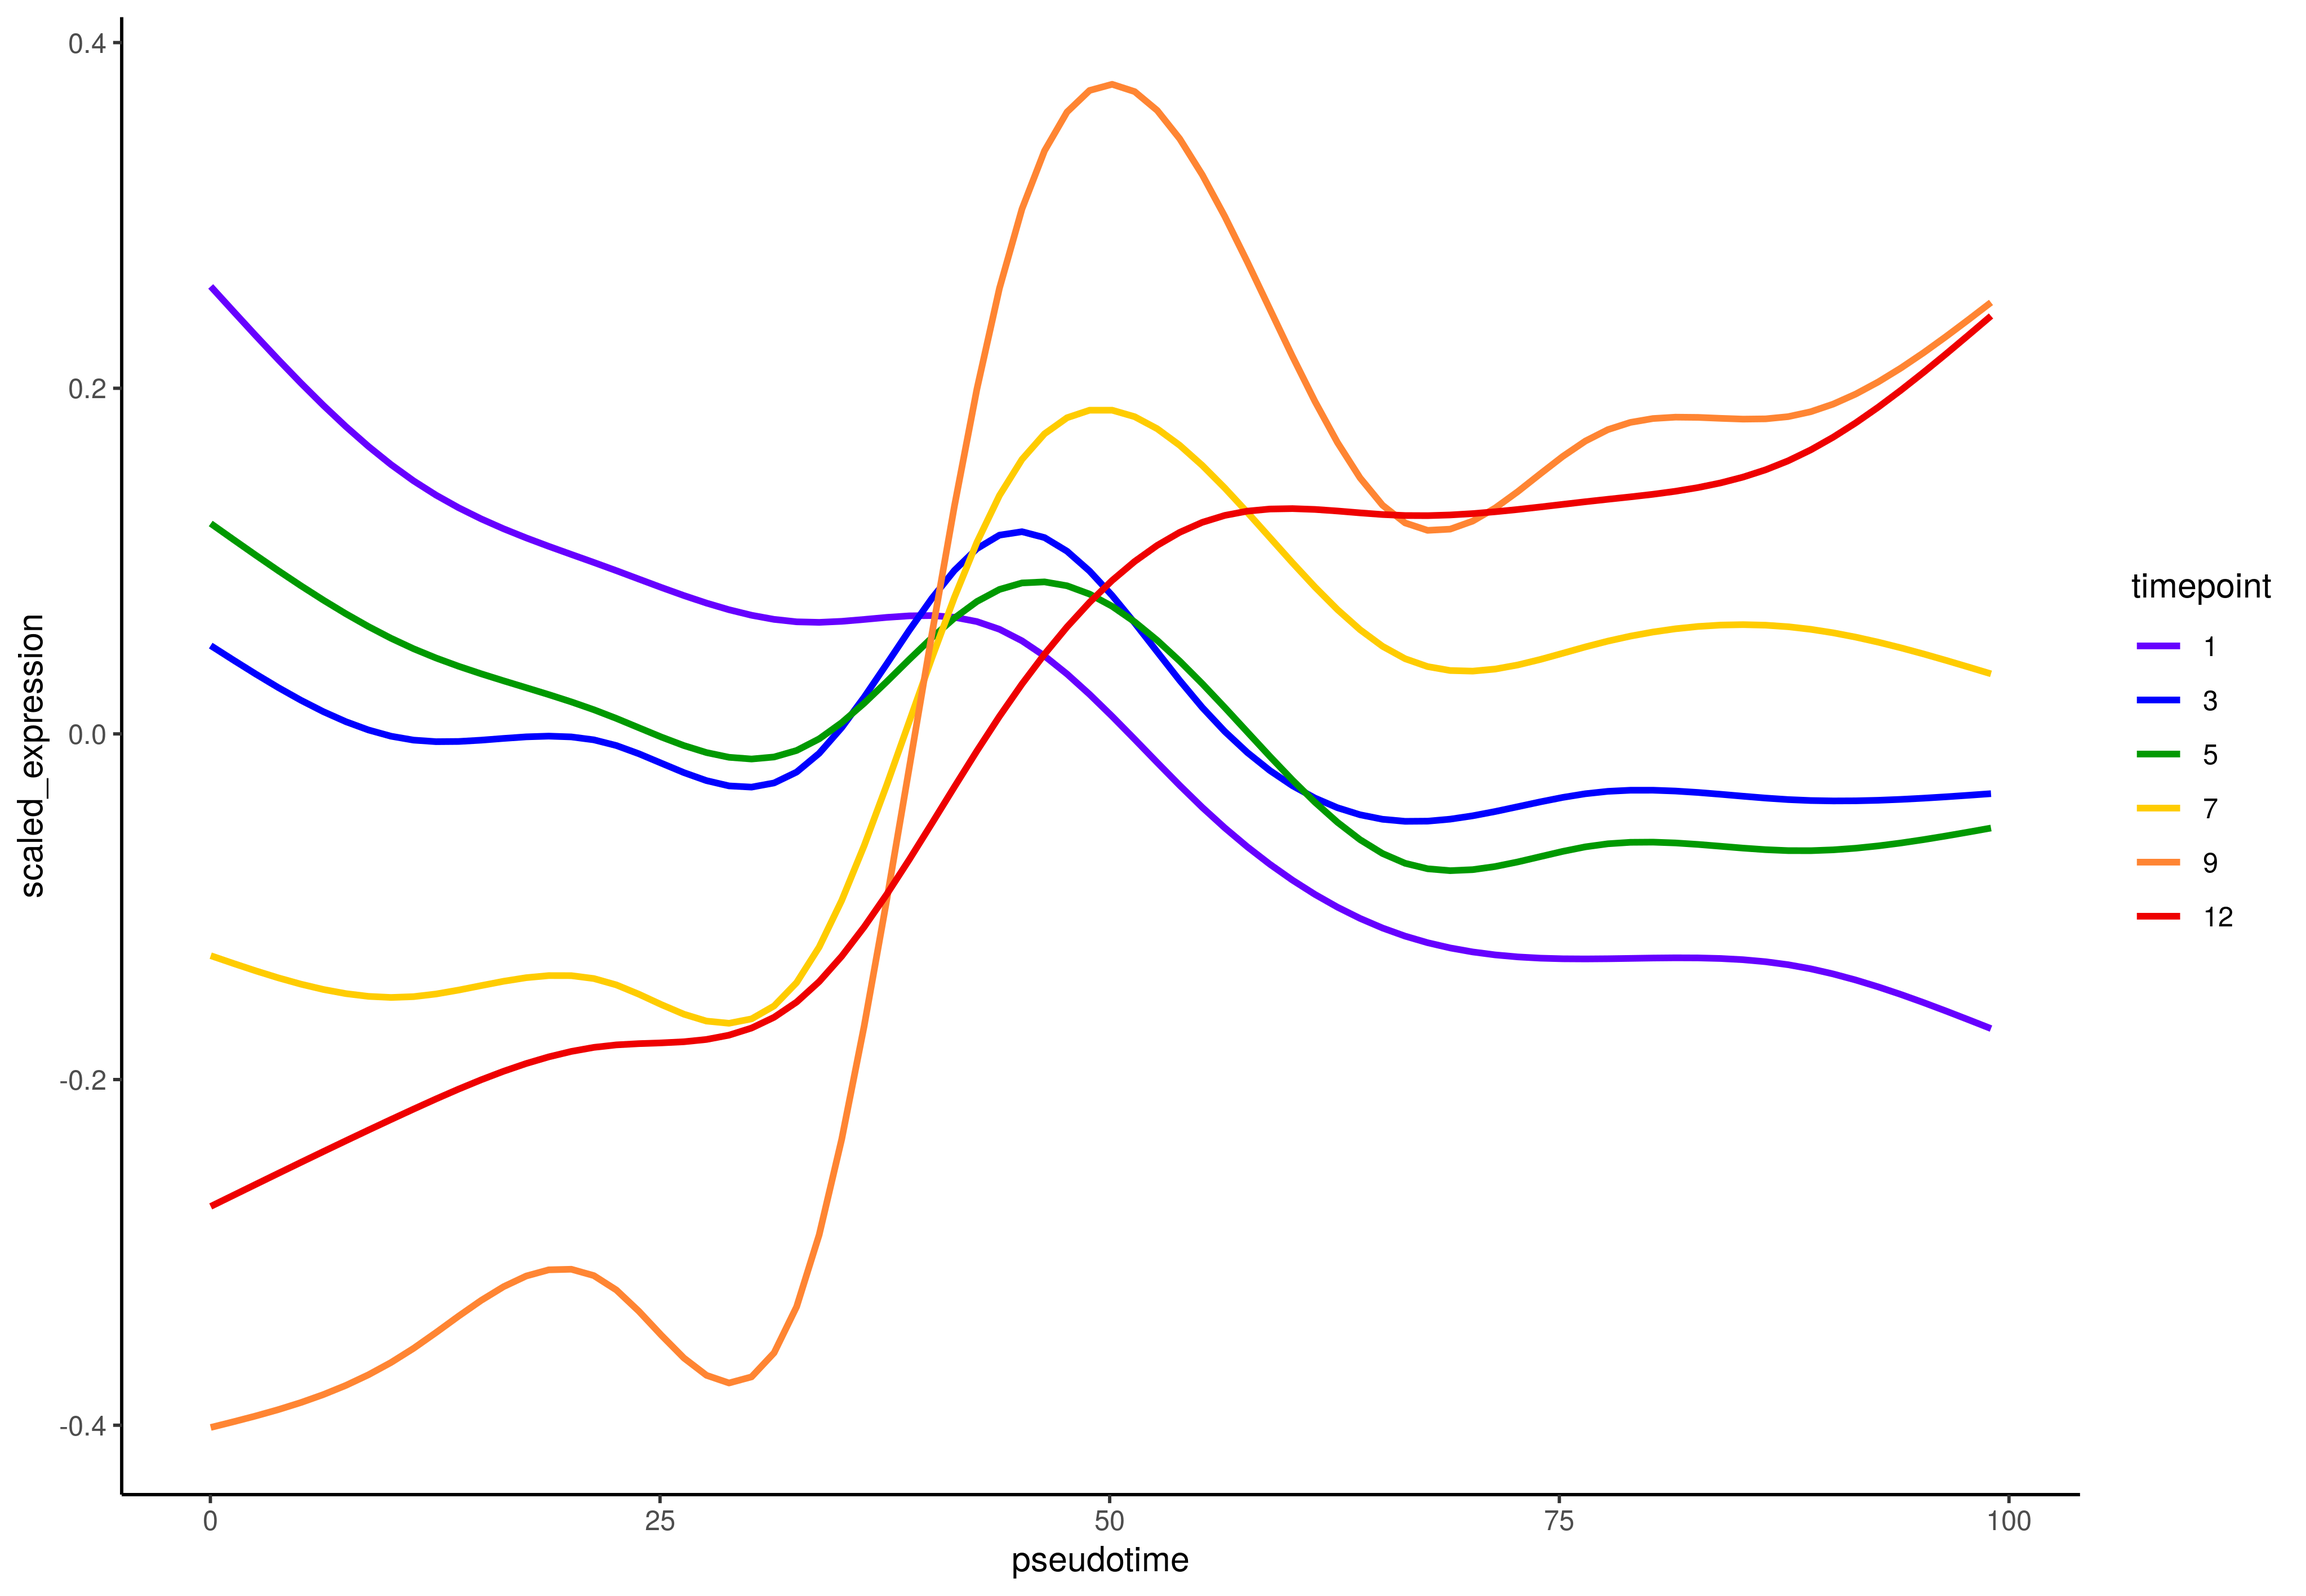
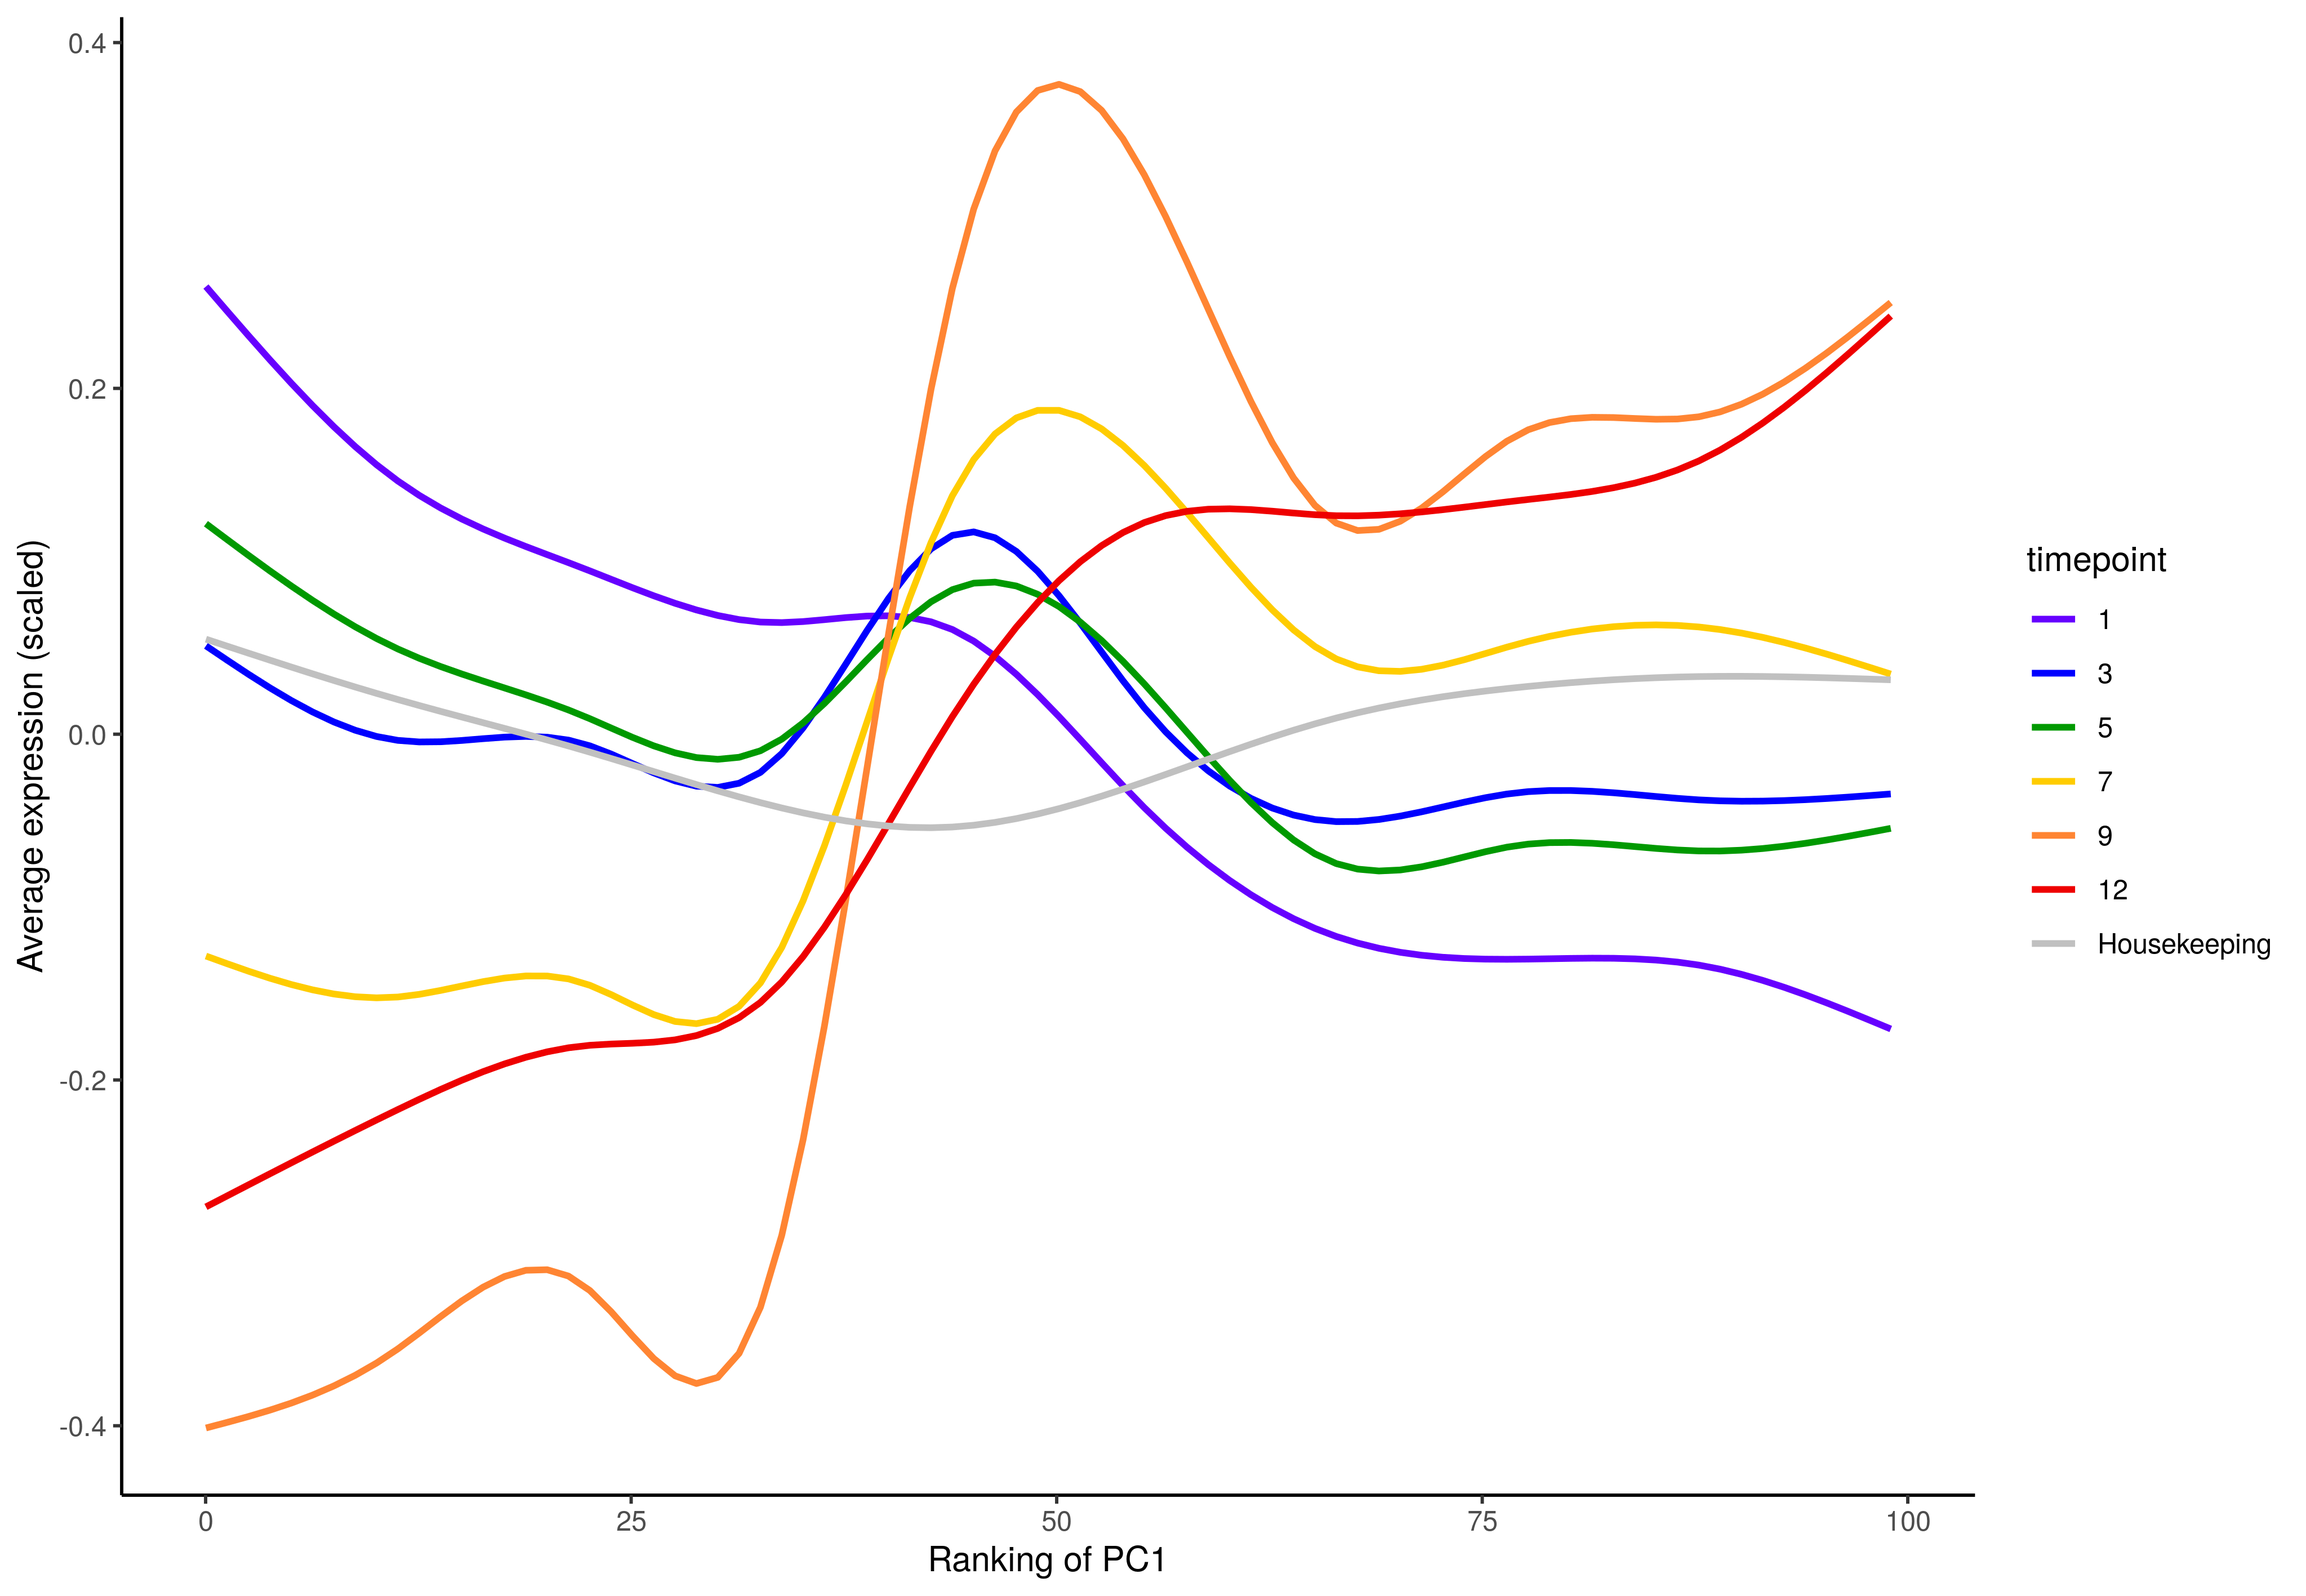
update pseudotime and add control

diff --git a/README.md b/README.md
@@ -1424,12 +1424,13 @@ pc1 <- neural_subset@meta.data[,'orig.ident', drop=F] %>%
 
 </br>
 
-Plot cell stage along PC1
+Plot cell stage along PC1 - x-axis inverted to match developmental stage
 ```R
-png(paste0(curr.plot.path, 'pc1.png'), height = 18, width = 26, units = 'cm', res = 400)
+png(paste0(curr.plot_path, 'pc1.png'), height = 18, width = 26, units = 'cm', res = 400)
 ggplot(pc1, aes(x = pc1, y = orig.ident, colour = orig.ident)) +
   geom_quasirandom(groupOnX = FALSE) +
   theme_classic() +
+  scale_x_reverse() +
   xlab("PC1") + ylab("Timepoint") +
   ggtitle("Cells ordered by first principal component")
 graphics.off()
@@ -1450,15 +1451,23 @@ pc1_rank <- pc1 %>%
 
 </br>
 
+Add housekeeping genes as a control group
+```R
+housekeeping <- data.frame(gene_name = c('GAPDH', 'SDHA', 'HPRT1', 'HBS1L', 'TUBB1', 'YWHAZ'), timepoint = 'Housekeeping')
+plot_genes <- rbind(network_genes, housekeeping)
+```
+
+</br>
+
 Filter scaled seurat counts by network_genes -> generate long df with corresponding pseudotime and normalised count
 ```R
-plot_data <- as.data.frame(t(as.matrix(GetAssayData(neural_subset, slot = 'scale.data')[rownames(neural_subset) %in% network_genes$gene_name,]))) %>%
+plot_data <- as.data.frame(t(as.matrix(GetAssayData(neural_subset, slot = 'scale.data')[rownames(neural_subset) %in% plot_genes$gene_name,]))) %>%
   tibble::rownames_to_column(var = "cell_name") %>%
   dplyr::full_join(pc1_rank) %>%
   pivot_longer(!c(cell_name, orig.ident, pseudotime, pc1, rank), names_to = "gene_name", values_to = "scaled_expression") %>%
-  dplyr::left_join(network_genes) %>%
+  dplyr::left_join(plot_genes) %>%
   droplevels() %>%
-  mutate(timepoint = factor(timepoint, levels = c(1,3,5,7,9,12)))
+  mutate(timepoint = factor(timepoint, levels = c(1,3,5,7,9,12,'Housekeeping')))
 ```
 
 </br>
@@ -1470,17 +1479,17 @@ plot_data_summary <- plot_data %>%
   group_by(rank_bin, timepoint) %>% 
   summarise(mn = mean(scaled_expression),
             se = sd(scaled_expression)/sqrt(n()))
-
 ```
 
 </br>
 
 Plot GAM for all stages without standard error
 ```R
-png(paste0(curr.plot.path, 'gam_pseudotime_allnetwork.png'), height = 18, width = 26, units = 'cm', res = 400)
+png(paste0(curr.plot_path, 'gam_pseudotime_allnetwork.png'), height = 18, width = 26, units = 'cm', res = 400)
 ggplot(plot_data, aes(x = pseudotime, y = scaled_expression, colour = timepoint)) +
-  scale_color_manual(values=c("#6600ff", "#0000ff", "#009900", "#ffcc00", "#ff8533", "#ee0000")) +
+  scale_color_manual(values=c("#6600ff", "#0000ff", "#009900", "#ffcc00", "#ff8533", "#ee0000", "#c0c0c0")) +
   geom_smooth(method="gam", se=FALSE) +
+  xlab("Ranking of PC1") + ylab("Average expression (scaled)") +
   theme_classic()
 graphics.off()
 ```
@@ -1489,13 +1498,14 @@ graphics.off()
 
 Plot GAM for all stages with standard error
 ```R
-png(paste0(curr.plot.path, 'gam_se_pseudotime_allnetwork.png'), height = 18, width = 26, units = 'cm', res = 400)
+png(paste0(curr.plot_path, 'gam_se_pseudotime_allnetwork.png'), height = 18, width = 26, units = 'cm', res = 400)
 ggplot(plot_data, aes(x = pseudotime, y = scaled_expression, colour = timepoint)) +
   geom_errorbar(data = plot_data_summary, aes(x = rank_bin, y = mn, 
                                               ymax = mn + se, ymin = mn - se), width = 2) +
   geom_point(data = plot_data_summary, aes(x = rank_bin, y = mn)) +
-  scale_color_manual(values=c("#6600ff", "#0000ff", "#009900", "#ffcc00", "#ff8533", "#ee0000")) +
+  scale_color_manual(values=c("#6600ff", "#0000ff", "#009900", "#ffcc00", "#ff8533", "#ee0000", "#c0c0c0")) +
   geom_smooth(method="gam", se=FALSE) +
+  xlab("Ranking of PC1") + ylab("Average expression (scaled)") +
   theme_classic()
 graphics.off()
 ```
